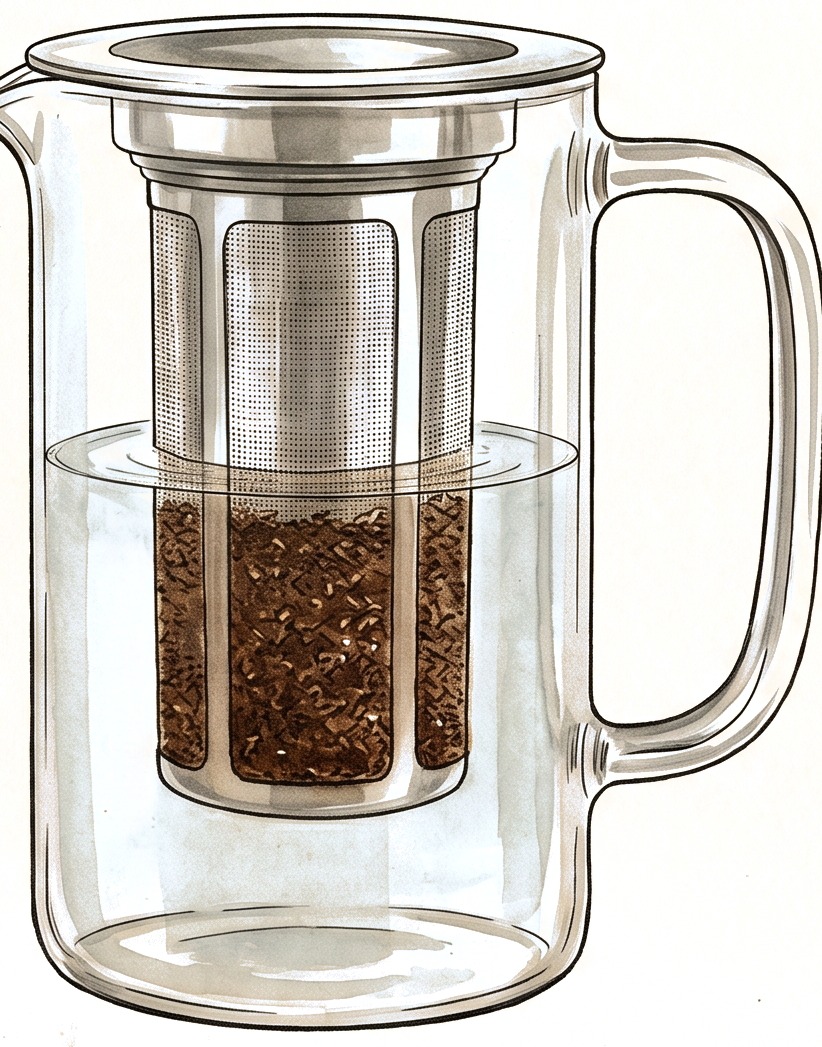
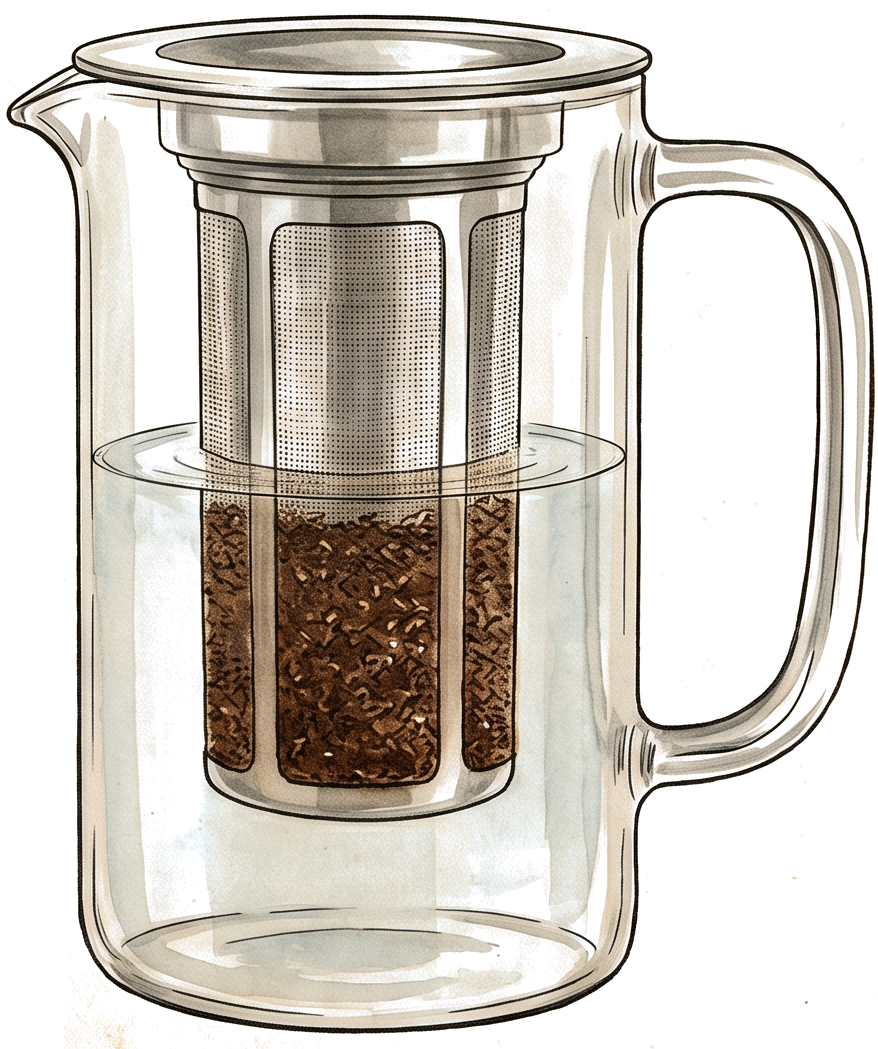
Update cold brew transparent cutout to preserve pourer lip

diff --git a/scripts/process_quiz_cutouts.py b/scripts/process_quiz_cutouts.py
@@ -142,6 +142,41 @@ def process_image(filename):
         high_thresh = 35.0
         bg_for_unblend = bg_color
 
+    elif filename == "cold-brew.jpg":
+        # Fit background surface to clean surrounding parchment around the pitcher/glass
+        surround_mask = np.zeros((h, w), dtype=bool)
+        surround_mask[150:260, 900:2000] = True
+        surround_mask[260:1330, 800:990] = True
+        surround_mask[260:1330, 1920:2100] = True
+        surround_mask[1330:1450, 900:2000] = True
+
+        surround_vals = arr[surround_mask]
+        y_coords, x_coords = np.mgrid[0:h, 0:w]
+        x_s = (x_coords[surround_mask] - 1450) / 500
+        y_s = (y_coords[surround_mask] - 800) / 500
+        A = np.column_stack([np.ones_like(x_s), x_s, y_s, x_s**2, y_s**2, x_s * y_s])
+
+        x_all = (x_coords - 1450) / 500
+        y_all = (y_coords - 800) / 500
+        all_A = np.column_stack([
+            np.ones(h * w),
+            x_all.ravel(),
+            y_all.ravel(),
+            (x_all**2).ravel(),
+            (y_all**2).ravel(),
+            (x_all * y_all).ravel(),
+        ])
+
+        bg_surface = np.zeros_like(arr)
+        for c in range(3):
+            coeffs, _, _, _ = np.linalg.lstsq(A, surround_vals[:, c], rcond=None)
+            bg_surface[:, :, c] = (all_A @ coeffs).reshape(h, w)
+
+        dist = np.sqrt(np.sum((arr - bg_surface) ** 2, axis=2))
+        low_thresh = 12.0
+        high_thresh = 38.0
+        bg_for_unblend = bg_surface
+
     else:
         # Parchment background with subtle radial vignette - fit 2D quadratic polynomial surface
         y_coords, x_coords = np.mgrid[0:h, 0:w]
@@ -174,6 +209,9 @@ def process_image(filename):
     if filename in {"dark-roast-coffee.jpg", "light-roast-coffee.jpg", "medium-roast-coffee.jpg"}:
         # Exclude text below y=1140 so only the coffee beans are captured
         s_bbox = (650, 300, 2230, 1140)
+    elif filename == "cold-brew.jpg":
+        # Keep entire pitcher and spout intact
+        s_bbox = (1018, 275, 1900, 1324)
     elif filename == "drip.jpg":
         # Exclude empty right side and bottom text
         s_bbox = (970, 190, 1850, 1260)
@@ -189,7 +227,7 @@ def process_image(filename):
     else:
         s_bbox = find_primary_subject_bbox(dist, high_thresh, w, h)
 
-    pad = 25
+    pad = 0 if filename == "cold-brew.jpg" else 25
     x1 = max(0, s_bbox[0] - pad)
     y1 = max(0, s_bbox[1] - pad)
     x2 = min(w, s_bbox[2] + pad)
@@ -201,6 +239,10 @@ def process_image(filename):
     # Mask out everything outside padded subject bounding box to ensure zero background noise
     mask_outside = np.ones((h, w), dtype=bool)
     mask_outside[y1:y2, x1:x2] = False
+    if filename == "cold-brew.jpg":
+        # Mask empty parchment to the left of the pitcher above and below the spout
+        mask_outside[:330, :1085] = True
+        mask_outside[460:, :1085] = True
     alpha[mask_outside] = 0.0
 
     # 4. Color unblending to remove paper edge fringing
